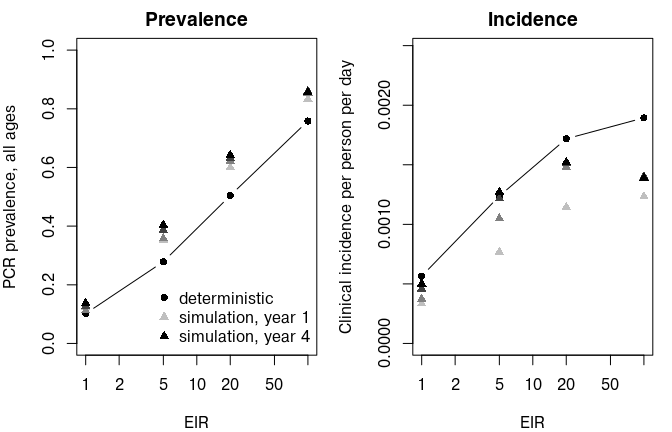
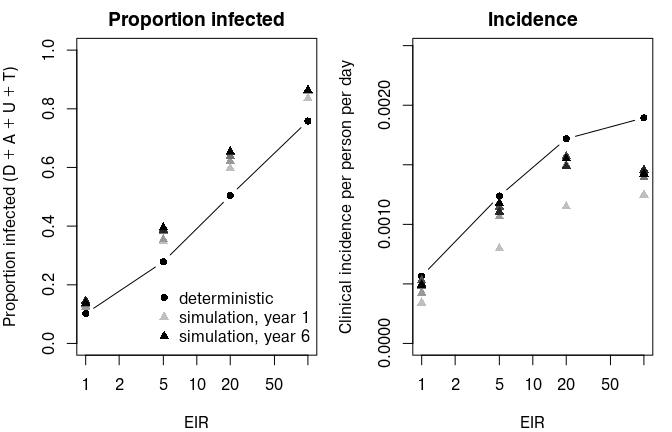
Deterministic vignette: proportion infected by compartment over six years
The comparison is relabelled as the proportion infected (D + A + U + T,
no detection probability on either side; year means from the simulation
against the deterministic equilibrium), run at N = 10000 for six years,
with a per-compartment table for the final year. The closing paragraph
states what holds: the simulation settles by about year three above the
deterministic model, with the excess in A, U below at the higher EIRs
and incidence 10 to 25% under, unchanged from 1.3.7. Recorded with the
other open findings in the review.

diff --git a/R_CODE_REVIEW.md b/R_CODE_REVIEW.md
@@ -769,6 +769,29 @@ packages (under review separately).
 Still open: the deferred `mu_fv_create()` shortcut above, and a coverage
 gate in CI (the pkgdown reference regrouping is done).
 
+Open findings, not investigated further:
+
+- The simulation sits above the deterministic model on the proportion
+  infected at every EIR (N = 20000, 10 years, ft = 0.4, EIR 1/5/20/100: year
+  10 = 0.147/0.395/0.653/0.866 against 0.102/0.279/0.504/0.758, i.e. +44%,
+  +42%, +30%, +14%), flat from about year 3, with the excess almost entirely
+  in A (0.103/0.312/0.570/0.818 against 0.067/0.197/0.384/0.637), U below the
+  deterministic value at EIR 20 and 100 and S lower to match; clinical
+  incidence 8-24% under. About two thirds of the gap is present in year 1.
+  magenta 1.3.7 shows the same gap, size and compartment, so it predates the
+  1.3.8 model fixes and the 1.4.0 changes. The Deterministic vignette shows
+  it at N = 10000 over six years.
+- A period starting on day 365k is assigned year k+1 one day early
+  (`floor(day_start / 365) + 1` with 1-based days), as the old loop did; only
+  update lengths dividing 364 or 729 (weekly, 14, 28, 52, 91, 182 days) are
+  affected.
+- A resumed run is reproducible from its file but does not equal an
+  uninterrupted run of the combined length: the saved state round-trips
+  exactly, but `Simulation_Saved_Init_cpp()` draws from the generator.
+- With `update_save = TRUE` the per-period output slots are the `Loggers`
+  list itself while the final slot is `list(Loggers = ...)`, the 1.3.x shape
+  the snapshots pin.
+
 *Parked for Phase 6.* The research-era helpers that Phase 0 removed are back
 on the branch, parked and unchanged (styled; ggplot2 calls qualified;
 `requireNamespace()` guards): `R/cluster_utils.R` (`pool_res()`,
